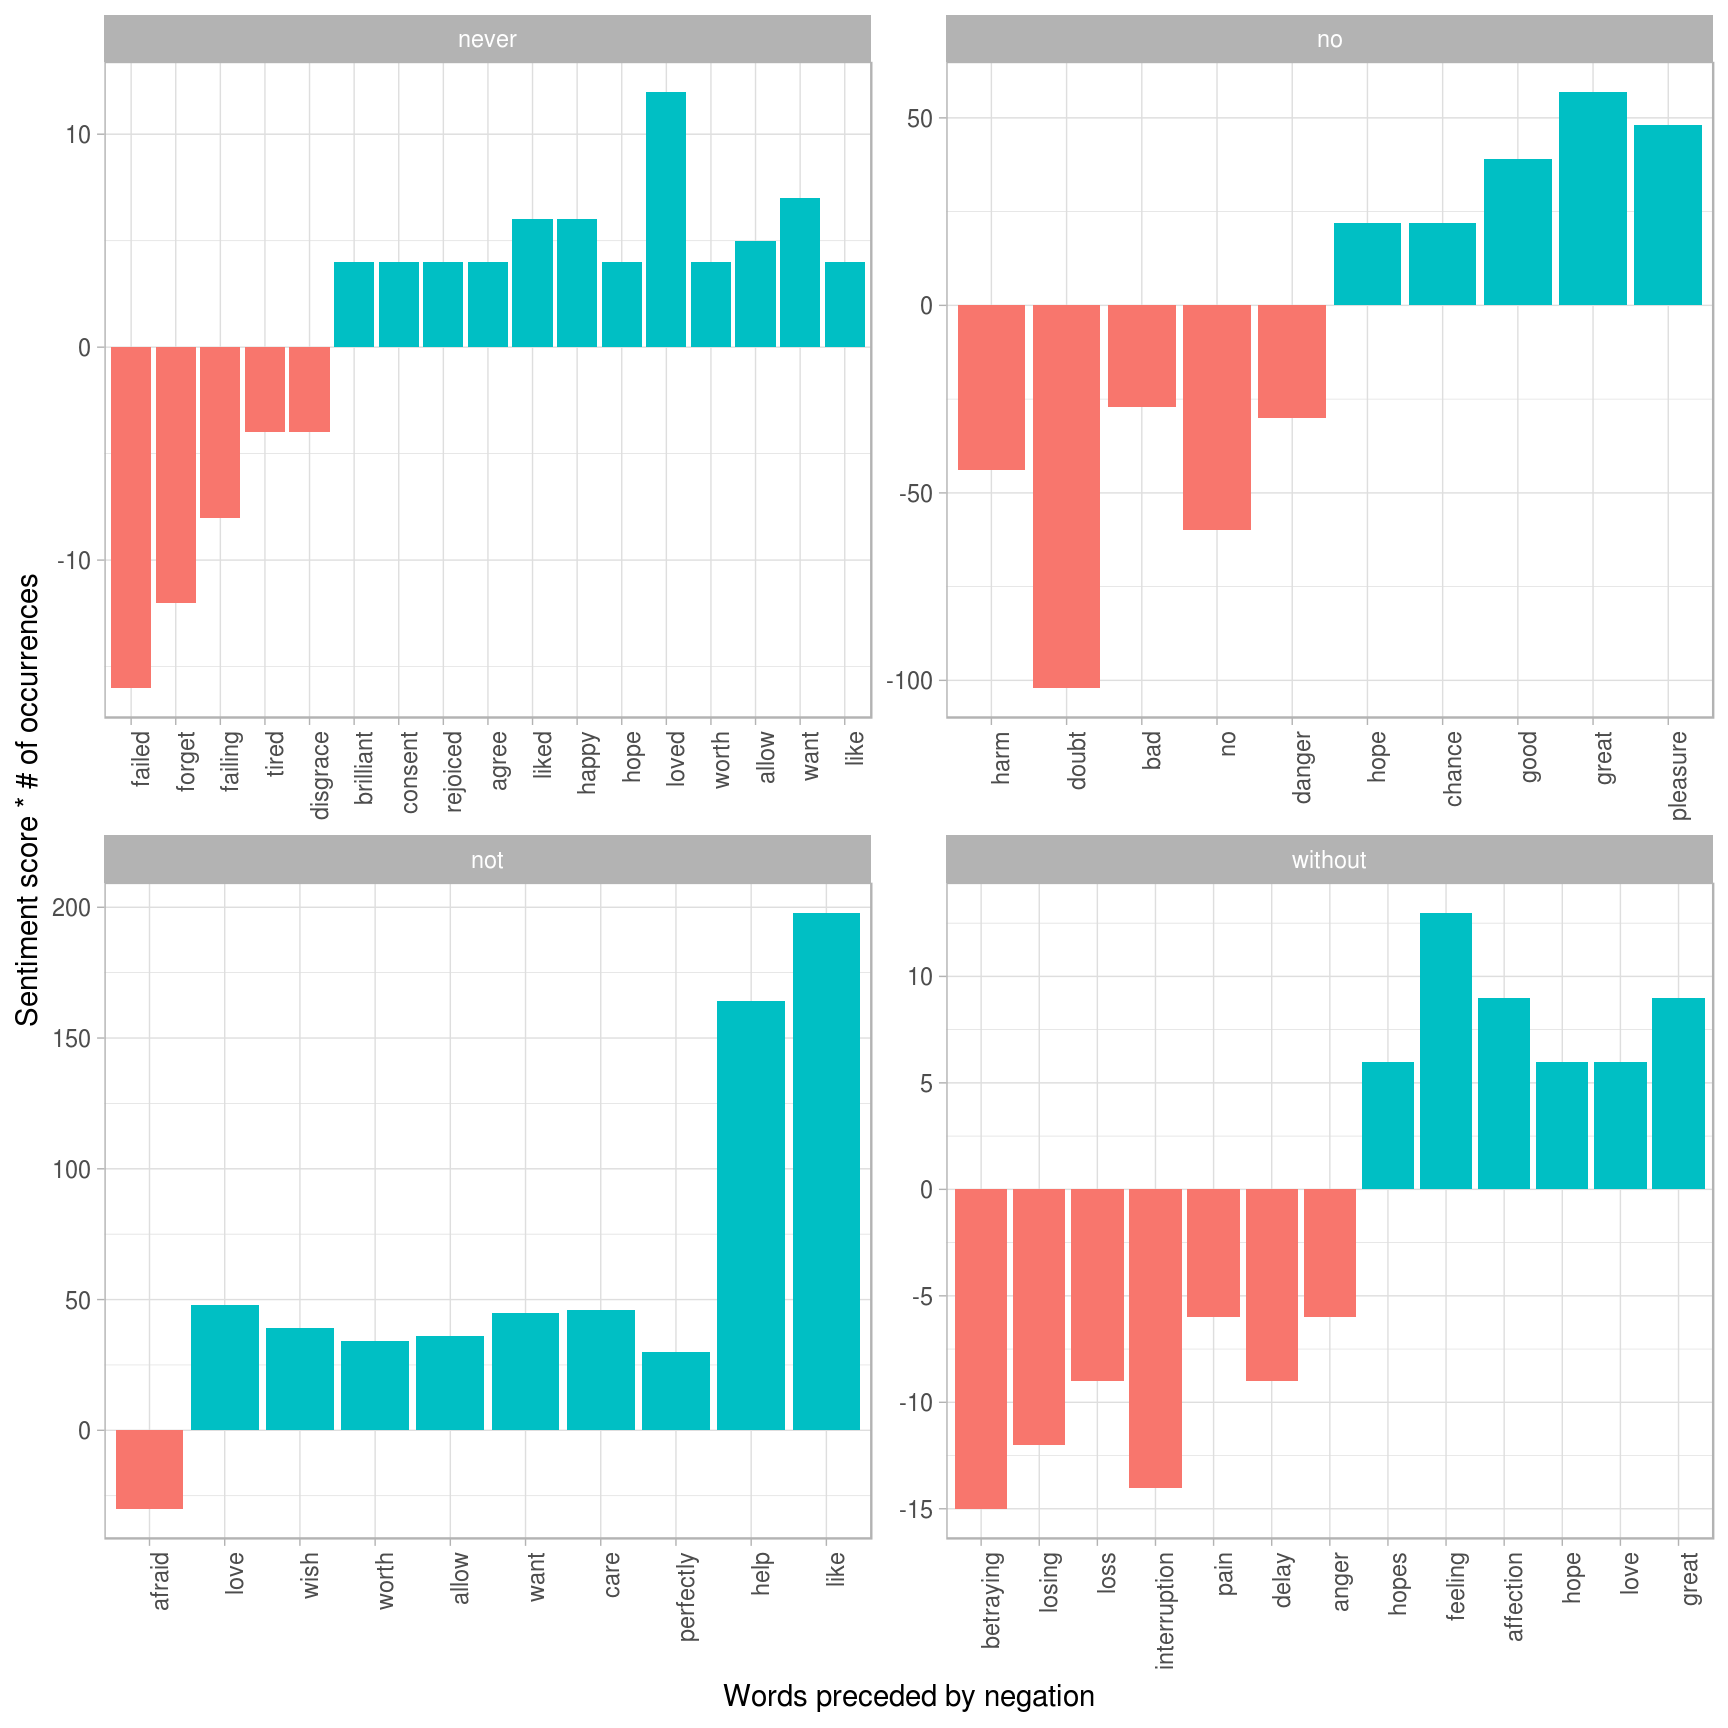
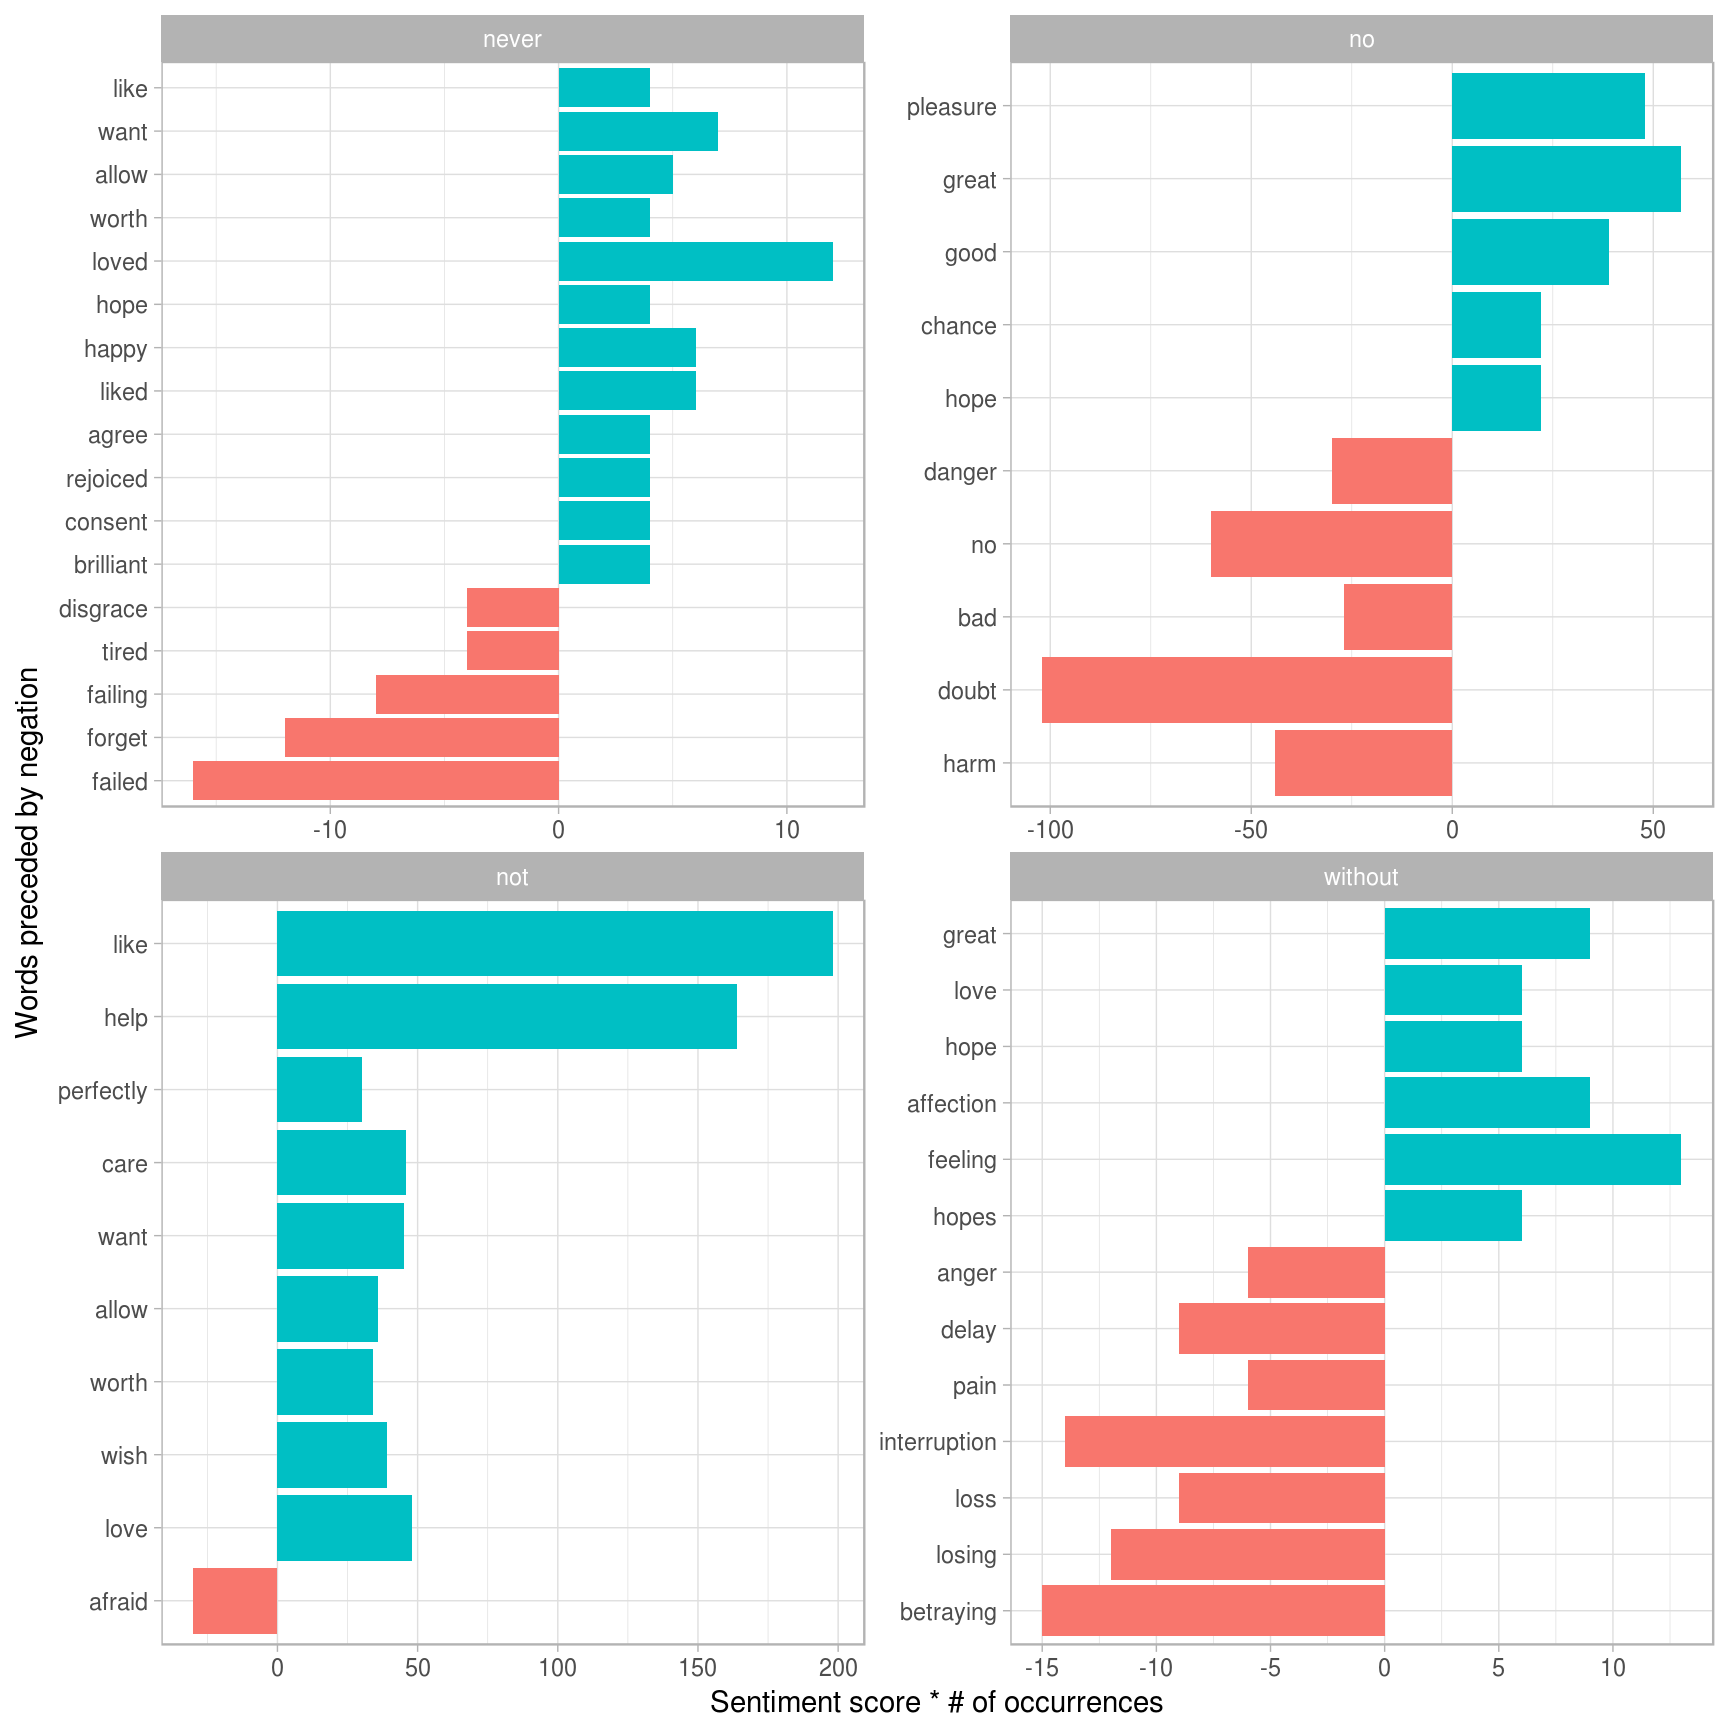
Updating book (114)

diff --git a/ngrams.html b/ngrams.html
@@ -481,12 +481,12 @@ negated_words %&gt;%
 <span class="st">  </span><span class="kw">facet_wrap</span>(~<span class="st"> </span>word1, <span class="dt">scales =</span> <span class="st">&quot;free&quot;</span>) +
 <span class="st">  </span><span class="kw">xlab</span>(<span class="st">&quot;Words preceded by negation&quot;</span>) +
 <span class="st">  </span><span class="kw">ylab</span>(<span class="st">&quot;Sentiment score * # of occurrences&quot;</span>) +
-<span class="st">  </span><span class="kw">theme</span>(<span class="dt">axis.text.x =</span> <span class="kw">element_text</span>(<span class="dt">angle =</span> <span class="dv">90</span>, <span class="dt">hjust =</span> <span class="dv">1</span>))</code></pre></div>
+<span class="st">  </span><span class="kw">coord_flip</span>()</code></pre></div>
 <p><img src="05-word-combinations_files/figure-html/negated_words_plot-1.png" width="864" /></p>
 </div>
 <div id="visualizing-a-network-of-bigrams-with-igraph" class="section level3">
 <h3><span class="header-section-number">5.1.4</span> Visualizing a network of bigrams with igraph</h3>
-<p>We may be interested in .</p>
+<p>We may be interested in visualizing all of the relationships among words simultaneously, rather than just the top few at a time.</p>
 <div class="sourceCode"><pre class="sourceCode r"><code class="sourceCode r">bigram_counts &lt;-<span class="st"> </span>bigrams_filtered %&gt;%<span class="st"> </span>
 <span class="st">  </span><span class="kw">count</span>(word1, word2, <span class="dt">sort =</span> <span class="ot">TRUE</span>)
 
@@ -730,7 +730,7 @@ word_cors</code></pre></div>
 <span class="st">  </span><span class="kw">ggplot</span>(<span class="kw">aes</span>(item2, correlation)) +
 <span class="st">  </span><span class="kw">geom_bar</span>(<span class="dt">stat =</span> <span class="st">&quot;identity&quot;</span>) +
 <span class="st">  </span><span class="kw">facet_wrap</span>(~<span class="st"> </span>item1, <span class="dt">scales =</span> <span class="st">&quot;free&quot;</span>) +
-<span class="st">  </span><span class="kw">theme</span>(<span class="dt">axis.text.x =</span> <span class="kw">element_text</span>(<span class="dt">angle =</span> <span class="dv">90</span>, <span class="dt">hjust =</span> <span class="dv">1</span>))</code></pre></div>
+<span class="st">  </span><span class="kw">coord_flip</span>()</code></pre></div>
 <p><img src="05-word-combinations_files/figure-html/unnamed-chunk-12-1.png" width="768" /></p>
 <p>Just as we used ggraph to visualize bigrams, we can use it to visualize the correlations and clusters of words that were found by the widyr package.</p>
 <div class="sourceCode"><pre class="sourceCode r"><code class="sourceCode r"><span class="kw">set.seed</span>(<span class="dv">2016</span>)

diff --git a/05-word-combinations.md b/05-word-combinations.md
@@ -2,7 +2,7 @@
 
 
 
-So far we've considered words as individual units, and connected them to documents or sentiments. However, many interesting text analyses are based on the relationships between words, whether examining words commonly used in proximity to each other or within the same documents. 
+So far we've considered words as individual units, and connected them to documents or sentiments. However, many interesting text analyses are based on the relationships between words, whether examining words commonly used in proximity to each other or within the same documents.
 
 Here, we'll explore some of the tools tidytext offers for determining relationships between words in your text corpus. We'll also introduce the widyr package, which is useful for calculating pairwise correlations and distances within a tidy format.
 
@@ -387,14 +387,14 @@ negated_words %>%
   facet_wrap(~ word1, scales = "free") +
   xlab("Words preceded by negation") +
   ylab("Sentiment score * # of occurrences") +
-  theme(axis.text.x = element_text(angle = 90, hjust = 1))
+  coord_flip()
 ```
 
 <img src="05-word-combinations_files/figure-html/negated_words_plot-1.png" width="864" />
 
 ### Visualizing a network of bigrams with igraph
 
-We may be interested in . 
+We may be interested in visualizing all of the relationships among words simultaneously, rather than just the top few at a time.
 
 
 ```r
@@ -735,7 +735,7 @@ word_cors %>%
   ggplot(aes(item2, correlation)) +
   geom_bar(stat = "identity") +
   facet_wrap(~ item1, scales = "free") +
-  theme(axis.text.x = element_text(angle = 90, hjust = 1))
+  coord_flip()
 ```
 
 <img src="05-word-combinations_files/figure-html/unnamed-chunk-12-1.png" width="768" />
